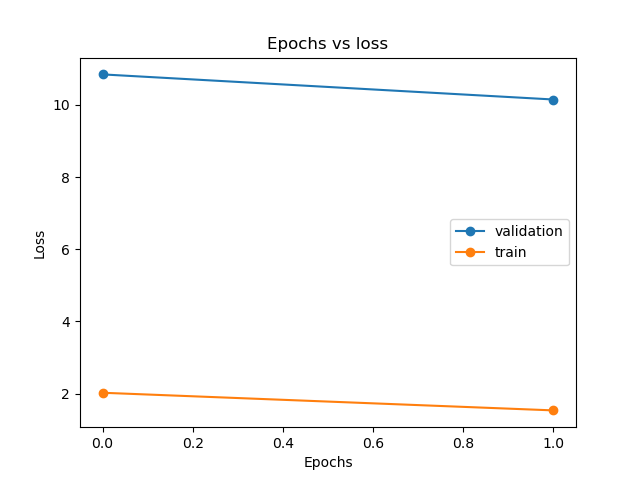
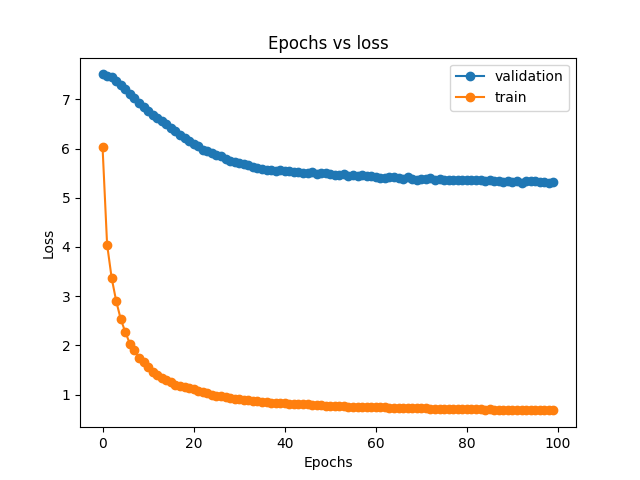
Added and verified cuda functionality. Added simple tuning functions.

diff --git a/tuning.py b/tuning.py
@@ -1,0 +1,73 @@
+import pandas as pd
+import torch
+import torch.nn as nn
+import torch.optim as optim
+import datetime
+
+from utils import *
+from classes import *
+
+def tune_learning_rate(train_dataloader, val_dataloader, num_epochs):
+    best_lr = 100000
+    best_val_loss = 100000
+    lr_list = [0.001, 0.01, 0.025, 0.050, 0.075, 0.1, 0.25, 0.5, 0.75, 0.99]
+
+    # use cuda if available
+    device = 'cuda'
+    if torch.cuda.is_available():
+        device = 'cuda'
+    else:
+        device = 'cpu'
+
+    for tune_lr in lr_list:
+        model = Transformer(
+          num_tokens=15000, dim_model=512, num_heads=8, num_encoder_layers=4, num_decoder_layers=4, dropout_p=0.1
+        ).to(device)
+
+        # Loss function -- critical for architecture analysis
+        opt = torch.optim.SGD(model.parameters(), lr=tune_lr)
+        loss_fn = nn.CrossEntropyLoss()
+
+        train_loss_list, validation_loss_list = fit(model, opt, loss_fn, train_dataloader, val_dataloader, epochs=num_epochs, device=device)
+
+        plot_loss_curves(train_loss_list=train_loss_list, val_loss_list=validation_loss_list, num_epochs=num_epochs, filename="lr_results"+ str(tune_lr) +".png")
+
+        if validation_loss_list[-1] < best_val_loss:
+            print("***\n\n\nA final validation loss of: " + str(validation_loss_list[-1]) + " is better than the loss of: " + str(best_val_loss) + "\n\n\n***")
+            best_lr = tune_lr
+            best_val_loss = validation_loss_list[-1]
+
+    print("***\n\n\nBest validation loss is: " + str(best_val_loss) + " Best lr is: " + str(best_lr) + "\n\n\n***")
+
+
+def tune_attention_heads(train_dataloader, val_dataloader, num_epochs):
+    best_attn_head = 100000
+    best_val_loss = 100000
+    attn_head_list = [1, 2, 4, 8, 16, 32]
+
+    # use cuda if available
+    device = 'cuda'
+    if torch.cuda.is_available():
+        device = 'cuda'
+    else:
+        device = 'cpu'
+
+    for tune_attn_head in attn_head_list:
+        model = Transformer(
+          num_tokens=15000, dim_model=512, num_heads=tune_attn_head, num_encoder_layers=4, num_decoder_layers=4, dropout_p=0.1
+        ).to(device)
+
+        # Loss function -- critical for architecture analysis
+        opt = torch.optim.SGD(model.parameters(), lr=0.1)
+        loss_fn = nn.CrossEntropyLoss()
+
+        train_loss_list, validation_loss_list = fit(model, opt, loss_fn, train_dataloader, val_dataloader, epochs=num_epochs, device=device)
+
+        plot_loss_curves(train_loss_list=train_loss_list, val_loss_list=validation_loss_list, num_epochs=num_epochs, filename="attn_head_results"+ str(tune_attn_head) +".png")
+
+        if validation_loss_list[-1] < best_val_loss:
+            print("***\n\n\nA final validation loss of: " + str(validation_loss_list[-1]) + " is better than the loss of: " + str(best_val_loss) + "\n\n\n***")
+            best_attn_head = tune_attn_head
+            best_val_loss = validation_loss_list[-1]
+
+    print("***\n\n\nBest validation loss is: " + str(best_val_loss) + " Best attn head number is: " + str(best_attn_head) + "\n\n\n***")

diff --git a/runner.py b/runner.py
@@ -7,6 +7,7 @@ import datetime
 
 from utils import *
 from classes import *
+from tuning import *
 
 
 
@@ -50,7 +51,7 @@ if __name__=="__main__":
         device = 'cpu'
 
     model = Transformer(
-          num_tokens=100000, dim_model=1000, num_heads=1, num_encoder_layers=1, num_decoder_layers=1, dropout_p=0.1
+          num_tokens=15000, dim_model=512, num_heads=8, num_encoder_layers=4, num_decoder_layers=4, dropout_p=0.1
     ).to(device)
 
     # Loss function -- critical for architecture analysis
@@ -59,15 +60,21 @@ if __name__=="__main__":
 
     print("Model generated.")
 
-
-    train_dataloader = batchify_data(training_data)
-    val_dataloader = batchify_data(validation_data)
+    train_dataloader = batchify_data(training_data, batch_size=128)
+    val_dataloader = batchify_data(validation_data, batch_size=128)
     print("Data has been loaded.")
 
     print("Computing the training and validation losses.")
-    num_epochs = 2
+    num_epochs = 20
     train_loss_list, validation_loss_list = fit(model, opt, loss_fn, train_dataloader, val_dataloader, epochs=num_epochs, device=device)
-
     plot_loss_curves(train_loss_list=train_loss_list, val_loss_list=validation_loss_list, num_epochs=num_epochs, filename='results.png')
+    
+
+    # Tuning functions
+    
+    print("Tuning learning rate...")
+    tune_learning_rate(train_dataloader=train_dataloader, val_dataloader=val_dataloader, num_epochs=num_epochs)
+    print("Tuning attention heads...")
+    tune_attention_heads(train_dataloader=train_dataloader, val_dataloader=val_dataloader, num_epochs=num_epochs)
 
     print("Train and testing complete.")

diff --git a/utils.py b/utils.py
@@ -106,6 +106,7 @@ def normalize_column(input_df, col_to_normalize):
 
 def plot_loss_curves(train_loss_list, val_loss_list, num_epochs, filename = ""):
     print("Plotting results and saving to file: " + str(filename))
+    plt.figure()
     x_axis = np.arange(0, num_epochs, 1)
     y_val = val_loss_list
     y_train = train_loss_list
